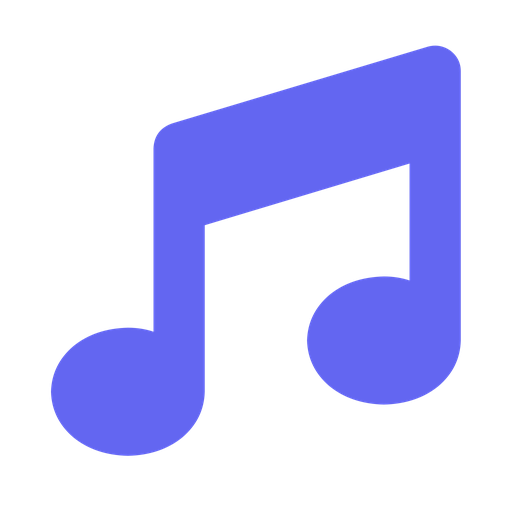
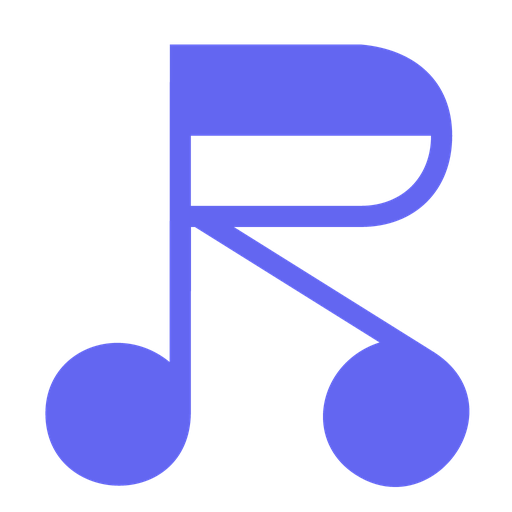
Update application branding assets

Changed region(s): [[0.0625, 0.0625, 0.9375, 0.9688]]

diff --git a/src/shell/sidebar.rs b/src/shell/sidebar.rs
@@ -1,7 +1,7 @@
 use crate::{
     app_button::SETTINGS_SECONDARY_SMALL_ICON_SIZE,
     app_tooltip::AppTooltipExt,
-    assets::{LocalIcon, local_icon},
+    assets::{LocalIcon, app_logo, local_icon},
     cache::CACHE_ICON,
     settings::{
         Category as SettingsCategory, DangerSecondaryButtonOptions, SidebarPass,
@@ -852,21 +852,7 @@ pub(super) fn render_sidebar(
                         .flex()
                         .items_center()
                         .gap(px(10.))
-                        .child(
-                            div()
-                                .w(px(34.))
-                                .h(px(34.))
-                                .flex_none()
-                                .flex()
-                                .items_center()
-                                .justify_center()
-                                .rounded(px(6.))
-                                .bg(rgb(PRIMARY))
-                                .child(
-                                    local_icon(LocalIcon::Music, FOREGROUND)
-                                        .size(px(SIDEBAR_ICON_GLYPH_SIZE)),
-                                ),
-                        )
+                        .child(app_logo().size(px(34.)).flex_none())
                         .when(!metrics.compact_desktop, |this| {
                             this.child(
                                 div()

diff --git a/src/ui/assets.rs b/src/ui/assets.rs
@@ -1,6 +1,6 @@
 use std::{borrow::Cow, collections::BTreeSet};
 
-use gpui::{AssetSource, SharedString, Styled, rgb, svg};
+use gpui::{AssetSource, SharedString, Styled, img, rgb, svg};
 use rust_embed::RustEmbed;
 
 #[derive(Clone, Copy, Debug, PartialEq, Eq)]
@@ -399,6 +399,14 @@ pub(crate) fn local_icon(icon: LocalIcon, color: u32) -> gpui::Svg {
     svg().path(icon.path()).text_color(rgb(color))
 }
 
+pub(crate) fn app_mark() -> gpui::Img {
+    img("ralgrum/app-icon.png")
+}
+
+pub(crate) fn app_logo() -> gpui::Img {
+    img("ralgrum/app-logo.png")
+}
+
 pub(crate) fn widget_icon(icon: LocalIcon) -> gpui_component::Icon {
     gpui_component::Icon::default().path(icon.path())
 }
@@ -451,6 +459,7 @@ fn font_awesome_file_for_widget_icon(path: &str) -> Option<&'static str> {
 #[folder = "assets"]
 #[include = "icons/fontawesome-free-7.3.1/**/*.svg"]
 #[include = "app-icon.png"]
+#[include = "app-logo.png"]
 struct LocalAssets;
 
 pub(crate) struct AppAssets;

diff --git a/src/shell/chrome.rs b/src/shell/chrome.rs
@@ -1,7 +1,7 @@
 use crate::{
     app_tooltip::AppTooltipExt,
-    assets::{LocalIcon, local_icon},
-    theme::{BORDER, CHROME, FOREGROUND, MUTED, PRIMARY, SURFACE_RAISED},
+    assets::{LocalIcon, app_mark, local_icon},
+    theme::{BORDER, CHROME, FOREGROUND, MUTED, SURFACE_RAISED},
 };
 use gpui::{
     ClickEvent, Context, IntoElement, MouseButton, Role, Window, WindowControlArea, div,
@@ -109,7 +109,7 @@ pub(super) fn render_titlebar(
                         )
                     },
                 )
-                .child(local_icon(LocalIcon::Music, PRIMARY).size(px(10.)))
+                .child(app_mark().size(px(10.)))
                 .child("ralgruM"),
         )
         .child(

diff --git a/src/settings/about_panel.rs b/src/settings/about_panel.rs
@@ -1,5 +1,5 @@
 use crate::{
-    assets::{LocalIcon, local_icon},
+    assets::{LocalIcon, app_mark, local_icon},
     theme::{FOREGROUND, MUTED, PRIMARY},
 };
 use gpui::{
@@ -24,11 +24,7 @@ impl SettingsView {
             .flex_col()
             .items_center()
             .gap(px(10.))
-            .child(
-                local_icon(LocalIcon::Music, PRIMARY)
-                    .size(px(APP_MARK_PX))
-                    .flex_none(),
-            )
+            .child(app_mark().size(px(APP_MARK_PX)).flex_none())
             .child(
                 div()
                     .text_size(px(21.))

diff --git a/README.md b/README.md
@@ -1,6 +1,6 @@
 <div align="center">
   <h1>
-    <img src="assets/app-icon.png" width="48" height="48" valign="middle" alt="ralgruM logo" />
+    <img src="assets/ralgruM.svg" width="48" height="48" valign="middle" alt="ralgruM logo" />
     ralgruM Desktop
   </h1>
   <p>A desktop music player for the <a href="https://murglar.app">Murglar</a> music service.</p>
